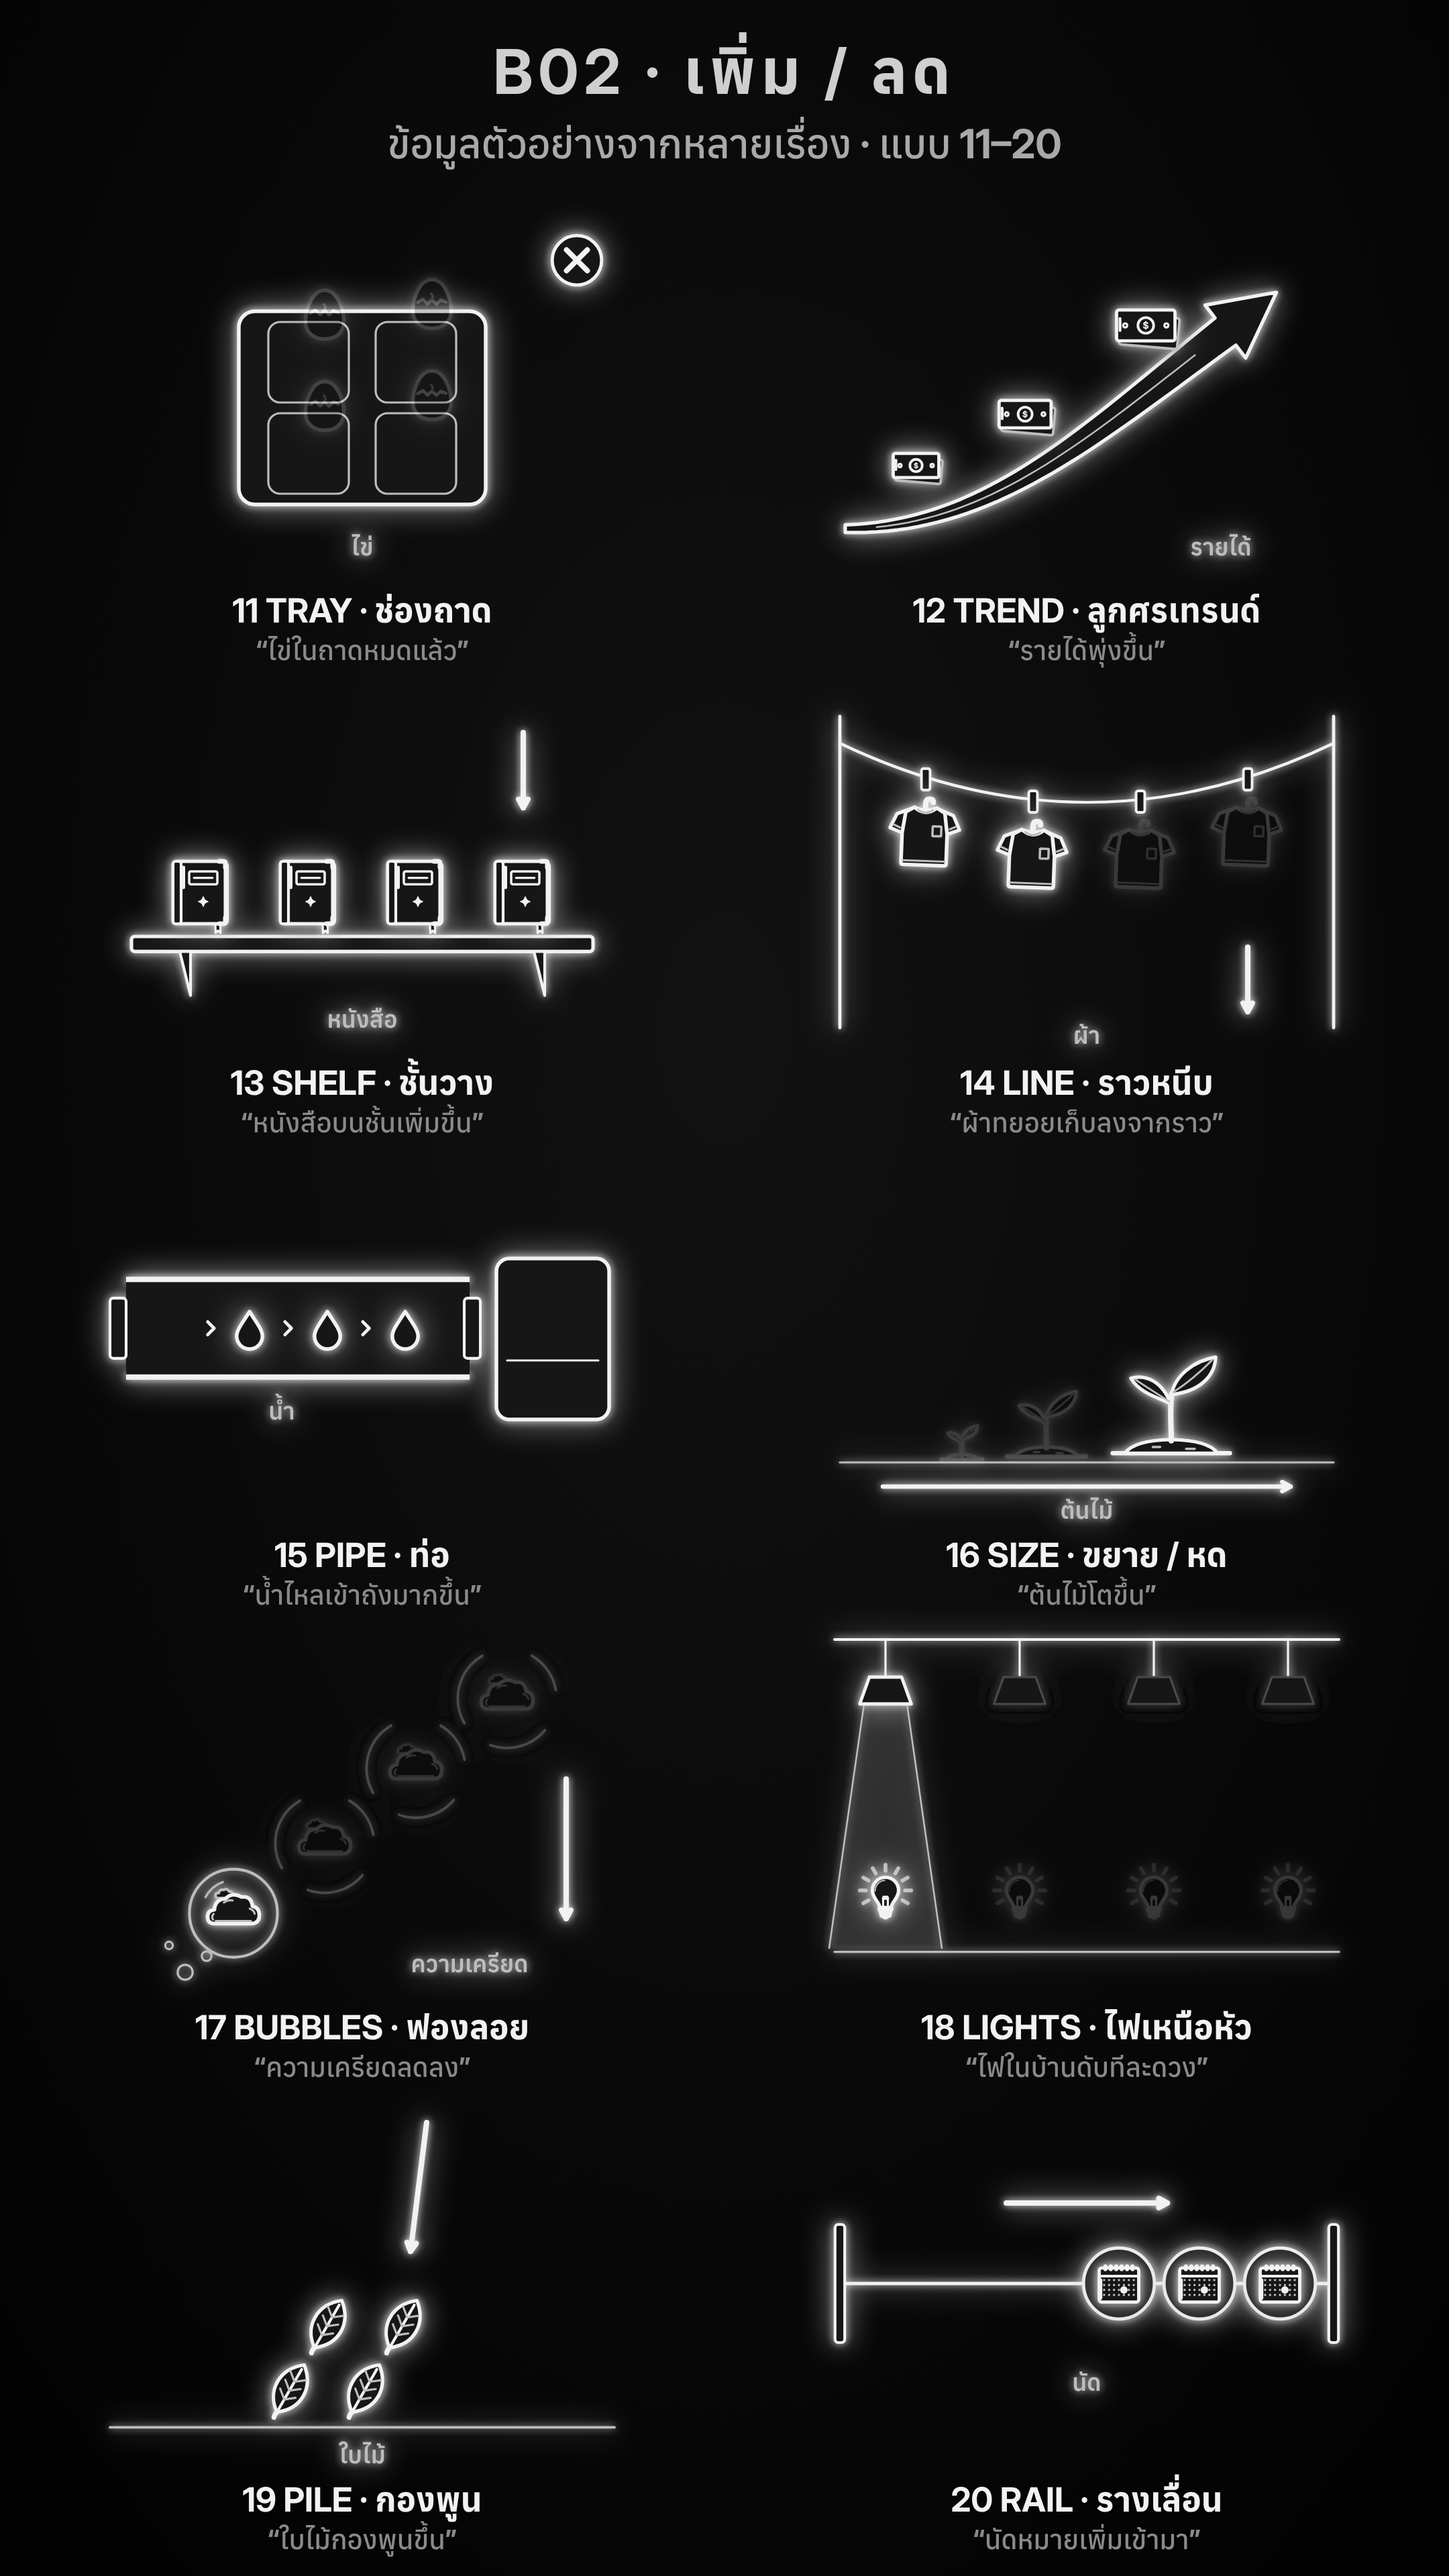
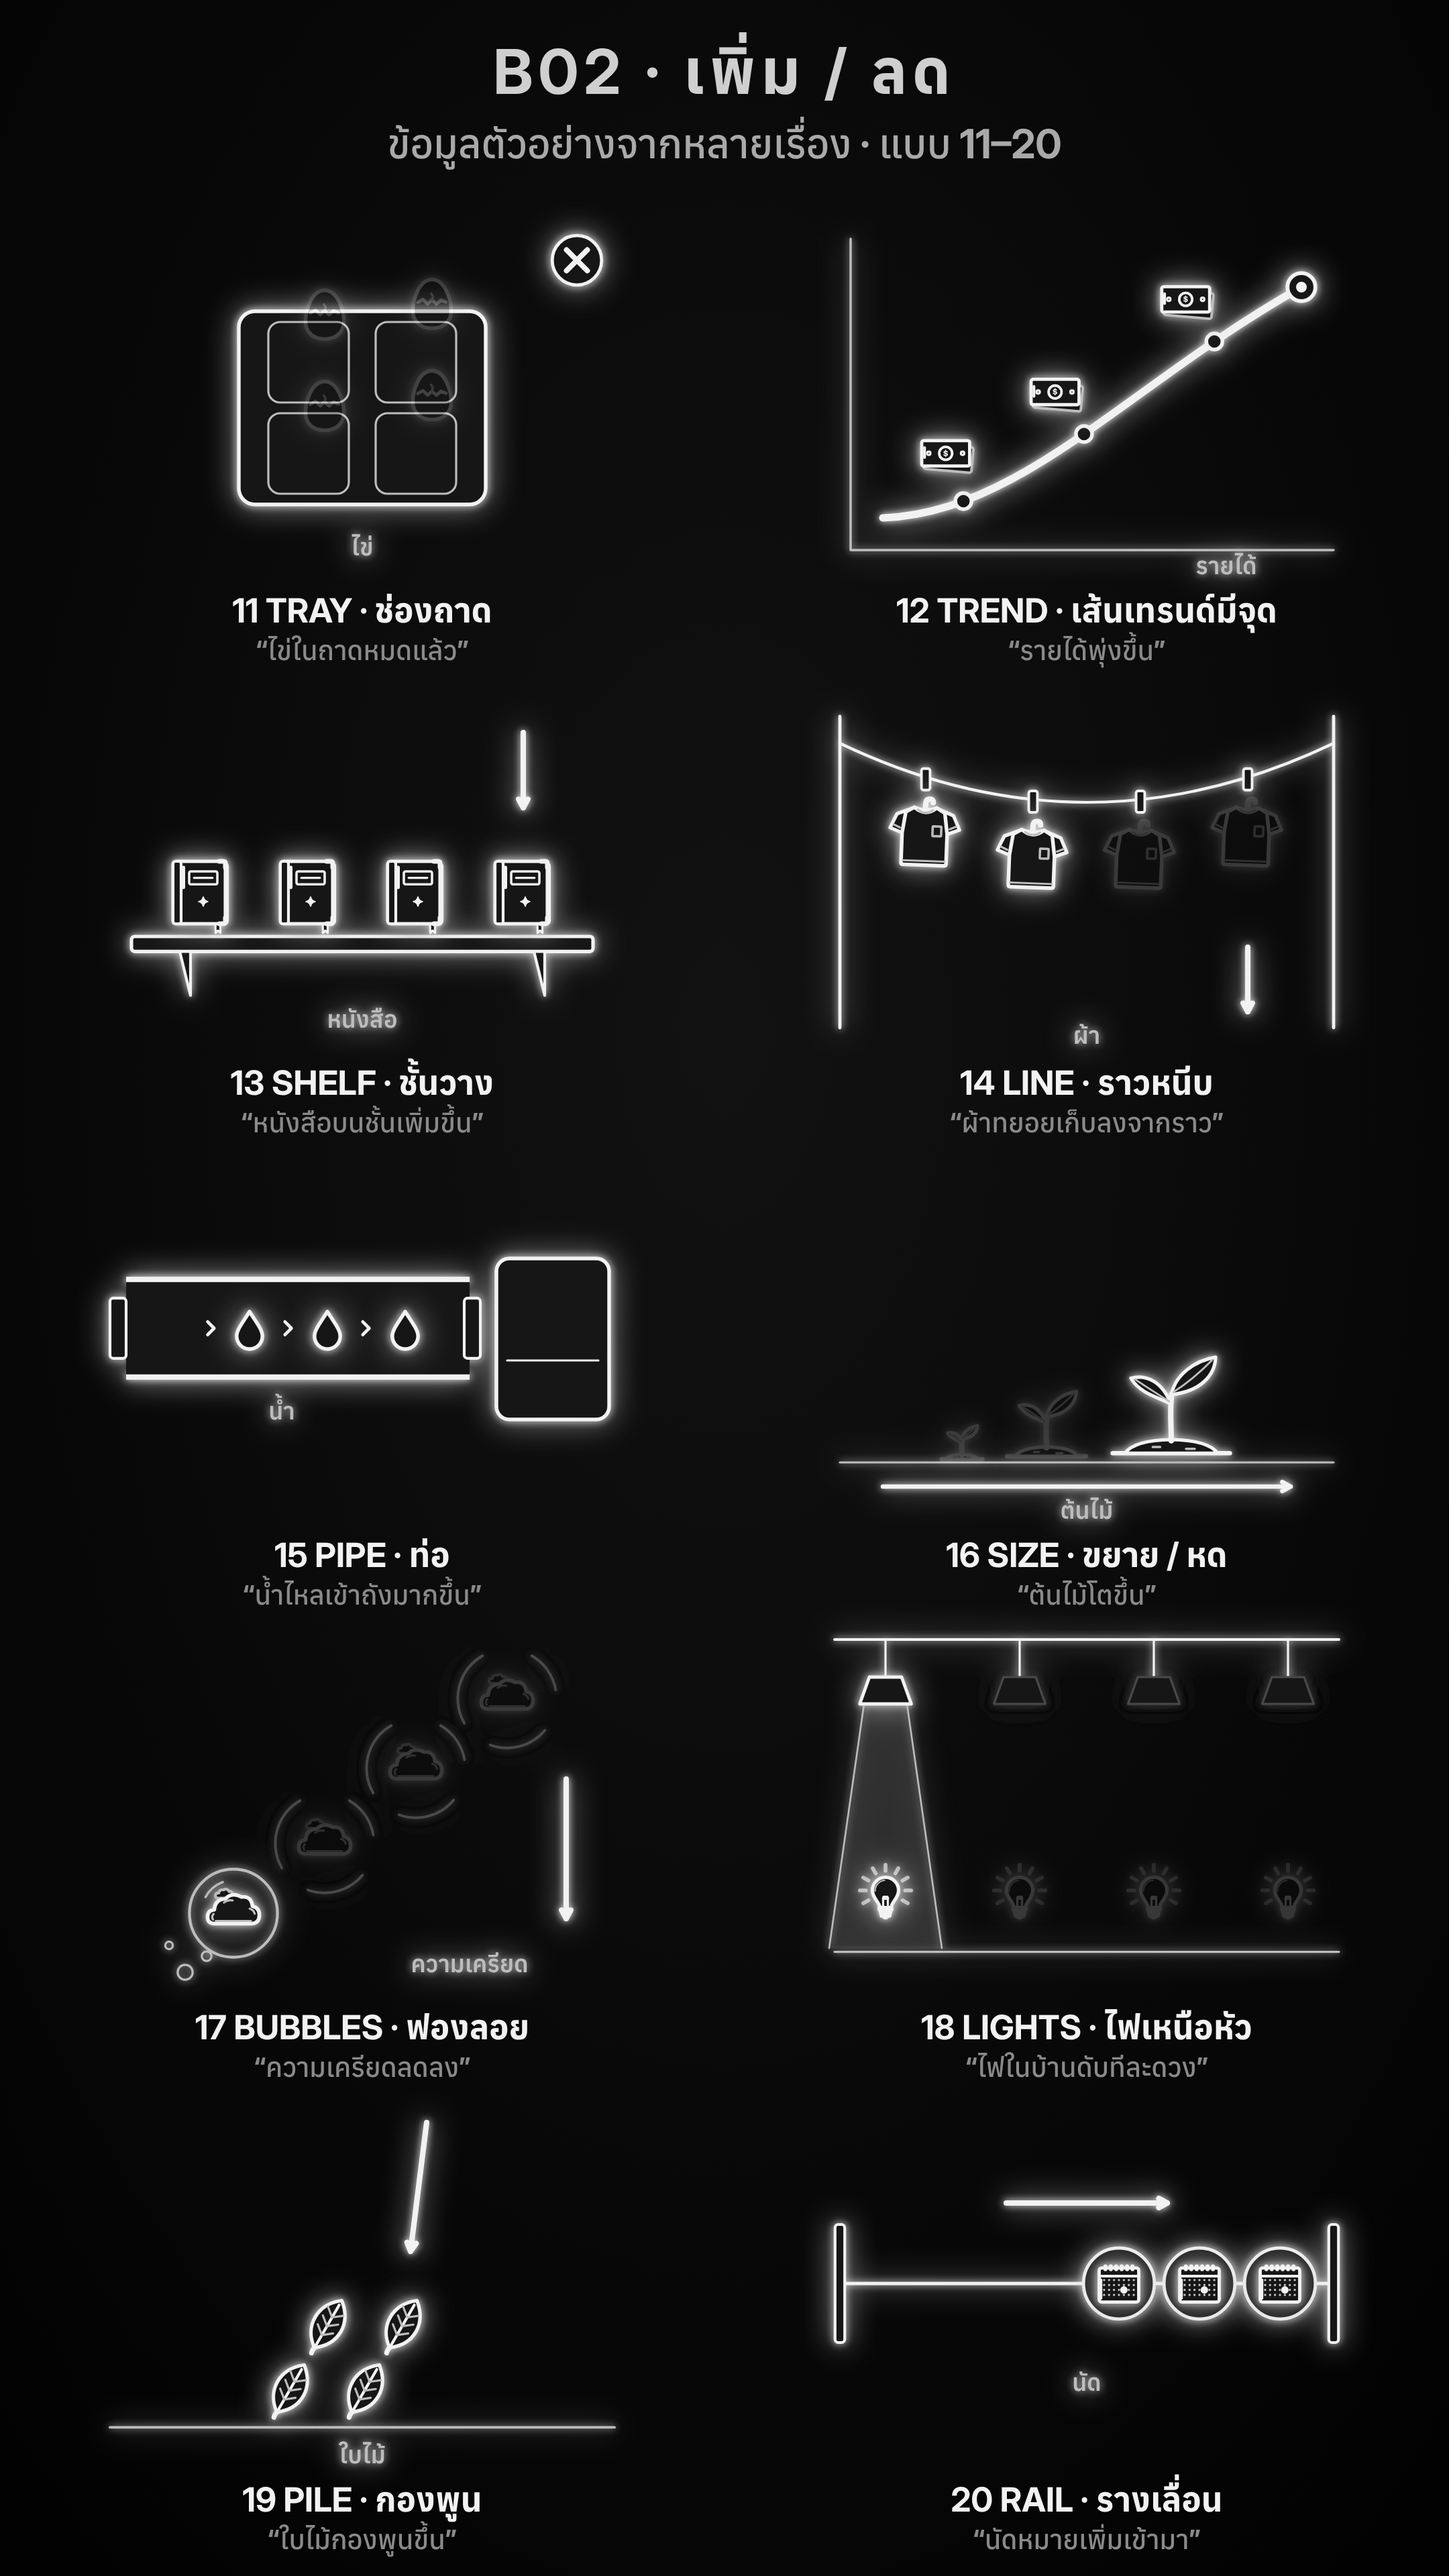
glow-line-motion: B02 design 12 = trend line with nodes (user's pick)
Claude-Session: https://claude.ai/code/session_01S8EfU7fAEGeBWyNc1CqSTP

Changed region(s): [[0.5583, 0.0938, 0.9306, 0.25]]

diff --git a/.claude/skills/glow-line-motion/examples/b02/b02.js b/.claude/skills/glow-line-motion/examples/b02/b02.js
@@ -223,39 +223,14 @@
     center(d, -390, 25, 130, c);
   });
 
-  /* 12 ── TREND: a big tapered arrow sweeps up (or down) in a soft S — thin at its tail, wide at its head; the copies ride along it */
-  variant('trend', 'ลูกศรเทรนด์', (d, c) => {
-    const n = N(d), up = d.dir === 'up', fy = y => up ? y : -y + 20;
-    const P = [[-450, fy(250)], [-140, fy(250)], [60, fy(20)], [390, fy(-215)]];
-    const B = t => { const u = 1 - t; return [0, 1].map(k => u * u * u * P[0][k] + 3 * u * u * t * P[1][k] + 3 * u * t * t * P[2][k] + t * t * t * P[3][k]); };
-    const D = t => { const u = 1 - t; return [0, 1].map(k => 3 * u * u * (P[1][k] - P[0][k]) + 6 * u * t * (P[2][k] - P[1][k]) + 3 * t * t * (P[3][k] - P[2][k])); };
-    art(c, p => {
-      const tH = .86, L = [], R = [], M = [];
-      for (let k = 0; k <= 40; k++) { const t = tH * k / 40, [x, y] = B(t), [dx, dy] = D(t), l = Math.hypot(dx, dy), nx = -dy / l, ny = dx / l, w = 7 + 25 * (t / tH);
-        L.push([f1(x + nx * w), f1(y + ny * w)]); R.push([f1(x - nx * w), f1(y - ny * w)]); if (k > 2 && k < 38) M.push([f1(x), f1(y)]); }
-      const [hx, hy] = B(tH), [tx, ty] = D(tH), tl = Math.hypot(tx, ty), ux = tx / tl, uy = ty / tl, nx = -uy, ny = ux, hw = 62, hl = 120;
-      const tip = [f1(hx + ux * hl), f1(hy + uy * hl)];
-      p.shape([...L, [f1(hx + nx * hw), f1(hy + ny * hw)], tip, [f1(hx - nx * hw), f1(hy - ny * hw)], ...R.reverse()], F(3.2));
-      p.poly(M, { sw: 1.6, stroke: C.soft });
-      labels(p, d, up ? 250 : -250, 300, up ? -380 : 380, up ? -300 : 330);
-      endSym(p, d, up ? 420 : 420, up ? 60 : -60, c);
-    });
-    for (let i = 0; i < n; i++) { const t = .18 + .58 * i / (n - 1), [x, y] = B(t), [dx, dy] = D(t), l = Math.hypot(dx, dy);
-      let nx = -dy / l, ny = dx / l; if (ny > 0) { nx = -nx; ny = -ny; }              // always ride on the upper side of the arrow
-      item(d, i, x + nx * 100, y + ny * 100, 100 + (up ? i * 14 : (n - 1 - i) * 14), c); }
-    center(d, up ? -380 : 380, up ? -220 : 250, 120, c);
-  });
-
-  /* 12 alternatives (user: "Design เส้นเทรนด์ใหม่", 2026-11-13) — kept outside V until the user picks one */
-  const ALT12 = [];
-  const alt = (id, th, build) => ALT12.push({ id, th, build });
   const cub = (P) => ({ B: t => { const u = 1 - t; return [0, 1].map(k => u * u * u * P[0][k] + 3 * u * u * t * P[1][k] + 3 * u * t * t * P[2][k] + t * t * t * P[3][k]); },
     D: t => { const u = 1 - t; return [0, 1].map(k => 3 * u * u * (P[1][k] - P[0][k]) + 6 * u * t * (P[2][k] - P[1][k]) + 3 * t * t * (P[3][k] - P[2][k])); },
     d: `M ${P[0][0]} ${P[0][1]} C ${P[1][0]} ${P[1][1]}, ${P[2][0]} ${P[2][1]}, ${P[3][0]} ${P[3][1]}` });
   const upSide = (D, t) => { const [dx, dy] = D(t), l = Math.hypot(dx, dy); let nx = -dy / l, ny = dx / l; if (ny > 0) { nx = -nx; ny = -ny; } return [nx, ny]; };
 
-  /* 12a ── NODES: a smooth line with a node under every copy, plain axes (no numbers), a glowing end point */
-  alt('nodes', 'เส้นมีจุด', (d, c) => {
+  /* 12 ── NODES (trend): a smooth line with a node under every copy, plain axes (no numbers), a glowing end point
+     (user's pick for the trend line, 2026-11-13, over tapered arrow / ribbon / step line) */
+  variant('trend', 'เส้นเทรนด์มีจุด', (d, c) => {
     const n = N(d), up = d.dir === 'up', fy = y => up ? y : -y + 10;
     const K3 = cub([[-380, fy(230)], [-120, fy(220)], [80, fy(-20)], [400, fy(-200)]]), ts = [...Array(n)].map((_, i) => .2 + .62 * i / (n - 1));
     art(c, p => {
@@ -268,44 +243,6 @@
     });
     ts.forEach((t, i) => { const [x, y] = K3.B(t), [nx, ny] = upSide(K3.D, t); item(d, i, x + nx * 95, y + ny * 95, 105, c); });
     center(d, up ? -330 : 330, up ? -210 : 230, 110, c);
-  });
-
-  /* 12b ── RIBBON: a wide ribbon sweeps up (or down) and turns over once on the way, ending in an arrow tip */
-  alt('ribbon', 'ริบบิ้นพลิ้ว', (d, c) => {
-    const n = N(d), up = d.dir === 'up', fy = y => up ? y : -y + 10;
-    const K3 = cub([[-450, fy(200)], [-200, fy(280)], [80, fy(-40)], [360, fy(-180)]]), ts = [...Array(n)].map((_, i) => .16 + .6 * i / (n - 1));
-    art(c, p => {
-      const W0 = 34, L = [], R = [], tw = .45;                        // the ribbon narrows to a twist at t = tw, then widens again
-      for (let k = 0; k <= 48; k++) { const t = .9 * k / 48, [x, y] = K3.B(t), [dx, dy] = K3.D(t), l = Math.hypot(dx, dy), w = W0 * Math.max(.08, Math.abs((t - tw) / tw) ** .7);
-        L.push([x - dy / l * w, y + dx / l * w]); R.push([x + dy / l * w, y - dx / l * w]); }
-      const half = (a, b) => [...L.slice(a, b), ...R.slice(a, b).reverse()].map(([x, y]) => [f1(x), f1(y)]);
-      const kt = Math.round(tw / .9 * 48);
-      p.shape(half(0, kt + 1), { fill: C.fill, sw: 2.6, stroke: C.soft });
-      p.shape(half(kt, 49), F(3.2));
-      const [hx, hy] = K3.B(.9), [tx, ty] = K3.D(.9), tl = Math.hypot(tx, ty), ux = tx / tl, uy = ty / tl;
-      p.shape([[f1(hx - uy * 64), f1(hy + ux * 64)], [f1(hx + ux * 110), f1(hy + uy * 110)], [f1(hx + uy * 64), f1(hy - ux * 64)]], F(3.4));
-      labels(p, d, up ? 260 : -260, 335, up ? -360 : 360, up ? -290 : 330);
-      endSym(p, d, 420, up ? 80 : -60, c);
-    });
-    ts.forEach((t, i) => { const [x, y] = K3.B(t), [nx, ny] = upSide(K3.D, t); item(d, i, x + nx * 105, y + ny * 105, 105, c); });
-    center(d, up ? -360 : 360, up ? -210 : 230, 110, c);
-  });
-
-  /* 12c ── STEPS LINE: a line climbs (or drops) in clean steps — one step per copy — and ends in an arrow */
-  alt('stepline', 'เส้นขั้นบันได', (d, c) => {
-    const n = N(d), up = d.dir === 'up', sx = 820 / (n + .6), x0 = -430, yA = up ? 250 : -230, dy = (up ? -1 : 1) * 420 / n;
-    art(c, p => {
-      const pts = [[x0, yA]];
-      for (let i = 0; i < n; i++) { const y = yA + dy * (i + 1); pts.push([x0 + sx * (i + .5), yA + dy * i], [x0 + sx * (i + .5), y]); }
-      const last = pts[pts.length - 1], ex = last[0] + sx * .9; pts.push([ex, last[1]]);
-      p.poly(pts.map(([x, y]) => [f1(x), f1(y)]), { sw: 8 });
-      p.shape([[f1(ex + 40), f1(last[1])], [f1(ex - 6), f1(last[1] - 30)], [f1(ex - 6), f1(last[1] + 30)]], { fill: C.ink, sw: 2 });
-      for (let i = 0; i < n; i++) { const x = x0 + sx * (i + .5), y = yA + dy * (i + 1); p.circle(f1(x), f1(y), 13, gone(d, i) ? { fill: C.fill, sw: 2.4, stroke: C.rule } : F(3.4)); }
-      labels(p, d, up ? 260 : -260, up ? 335 : 335, up ? -360 : 360, up ? -290 : 330);
-      endSym(p, d, 420, up ? 120 : -100, c);
-    });
-    for (let i = 0; i < n; i++) item(d, i, x0 + sx * (i + 1), yA + dy * (i + 1) - 80, 110, c);
-    center(d, up ? -360 : 360, up ? -210 : 230, 110, c);
   });
 
   /* 13 ── SHELF: copies stand on a wall shelf — a new one is set down (or the gaps show the ones taken) */
@@ -477,5 +414,5 @@
   ];
 
   G.cats = G.cats || {};
-  G.cats.B02 = { variants: V, ALT12, SAMPLES, STRESS, draw: (i, d, c) => V[i].build(d, c) };
+  G.cats.B02 = { variants: V, SAMPLES, STRESS, draw: (i, d, c) => V[i].build(d, c) };
 })();

diff --git a/.claude/skills/glow-line-motion/HANDOFF.md b/.claude/skills/glow-line-motion/HANDOFF.md
@@ -63,9 +63,9 @@
   lights ไฟเหนือหัว · pile กองพูน · rail รางเลื่อน. (ไม่ใช้: เก้าอี้ — CutPack DECISIONS เคยลบ "เก้าอี้จอง"; ตะกร้า/รถเข็น — ผูกเรื่องช้อปปิ้ง.)
 - ผู้ใช้: **"ทำเส้นเทรนของอันที่ 12 ให้มันดีๆหน่อย"** → trend วาดใหม่: ลูกศรเรียวโค้ง S (cubic) เรียวที่หาง หนาที่หัว (polygon จาก offset ของเส้นโค้ง),
   หัวลูกศรต่อตามทิศโค้ง, เส้นกลางบางสีเทาในตัว; ของลอยด้านบนเส้นเสมอ (ทั้งขึ้นและลง). ภาพ `b02-12-trend.png` (4 กรณี).
-- ผู้ใช้ขัดจังหวะ: **"Design เส้นเทรนด์ใหม่คับ"** → เสนอ 3 ทาง `GL.cats.B02.ALT12`: A nodes เส้นมีจุด (แกนไม่มีตัวเลข, จุดใต้ของแต่ละชิ้น, จุดปลายเรือง) ·
-  B ribbon ริบบิ้นพลิ้ว (บิดครั้งเดียว + หัวลูกศร) · C stepline เส้นขั้นบันได (ขั้นละชิ้น + หัวลูกศร) — แผ่น `examples/b02/alt12.html`,
-  ภาพ `motion/glow-line-cats/b02/b02-12-options.png`. **รอผู้ใช้เลือก** → ใส่แทน trend ใน `V` (ตอนนี้ V ยังเป็นลูกศรเรียวโค้ง S).
+- ผู้ใช้ขัดจังหวะ: **"Design เส้นเทรนด์ใหม่คับ"** → เสนอ 3 ทาง (nodes / ribbon / stepline) → ผู้ใช้ **"A"** →
+  แบบ 12 = `trend` เส้นเทรนด์มีจุด (เส้นโค้ง + จุดใต้ของแต่ละชิ้น + แกนไม่มีตัวเลข + จุดปลายเรือง; ขาลง: จุดของที่หายเป็นวงจาง). ลูกศรเรียวโค้ง S ลบแล้ว.
+- **รอผู้ใช้ตอบว่าภาพนิ่ง B02 ทั้ง 20 ผ่าน** → แล้วใส่ท่าขยับ.
 - ถัดไป: ผู้ใช้เลือก → แทนแบบที่ไม่ชอบด้วยตัวเลือก 3 ทาง (เหมือน B01) → ผ่านแล้วใส่ท่า (ของทยอยเข้า/ออกทีละชิ้น ชิ้นสุดท้ายตรงคำสำคัญ) ด้วยโครงเดียวกับ b01.js.
 
 ## ✅ ตัวปรับท่าขยับกลาง — ทำเสร็จแล้ว (2026-11-12) · ผู้ใช้ตอบ **"ผ่าน"**
